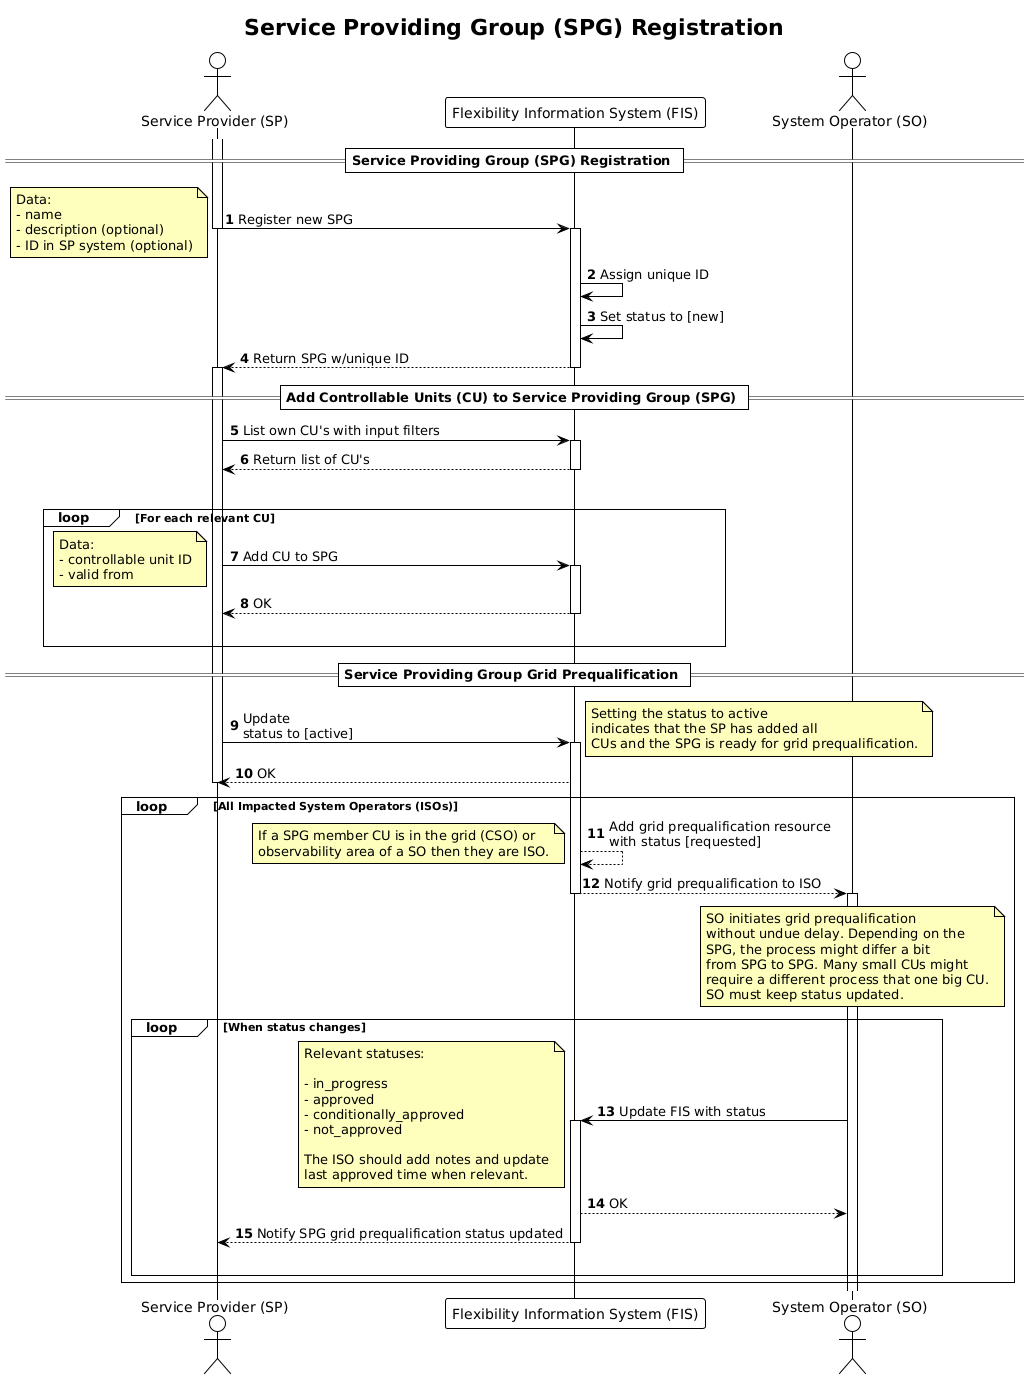
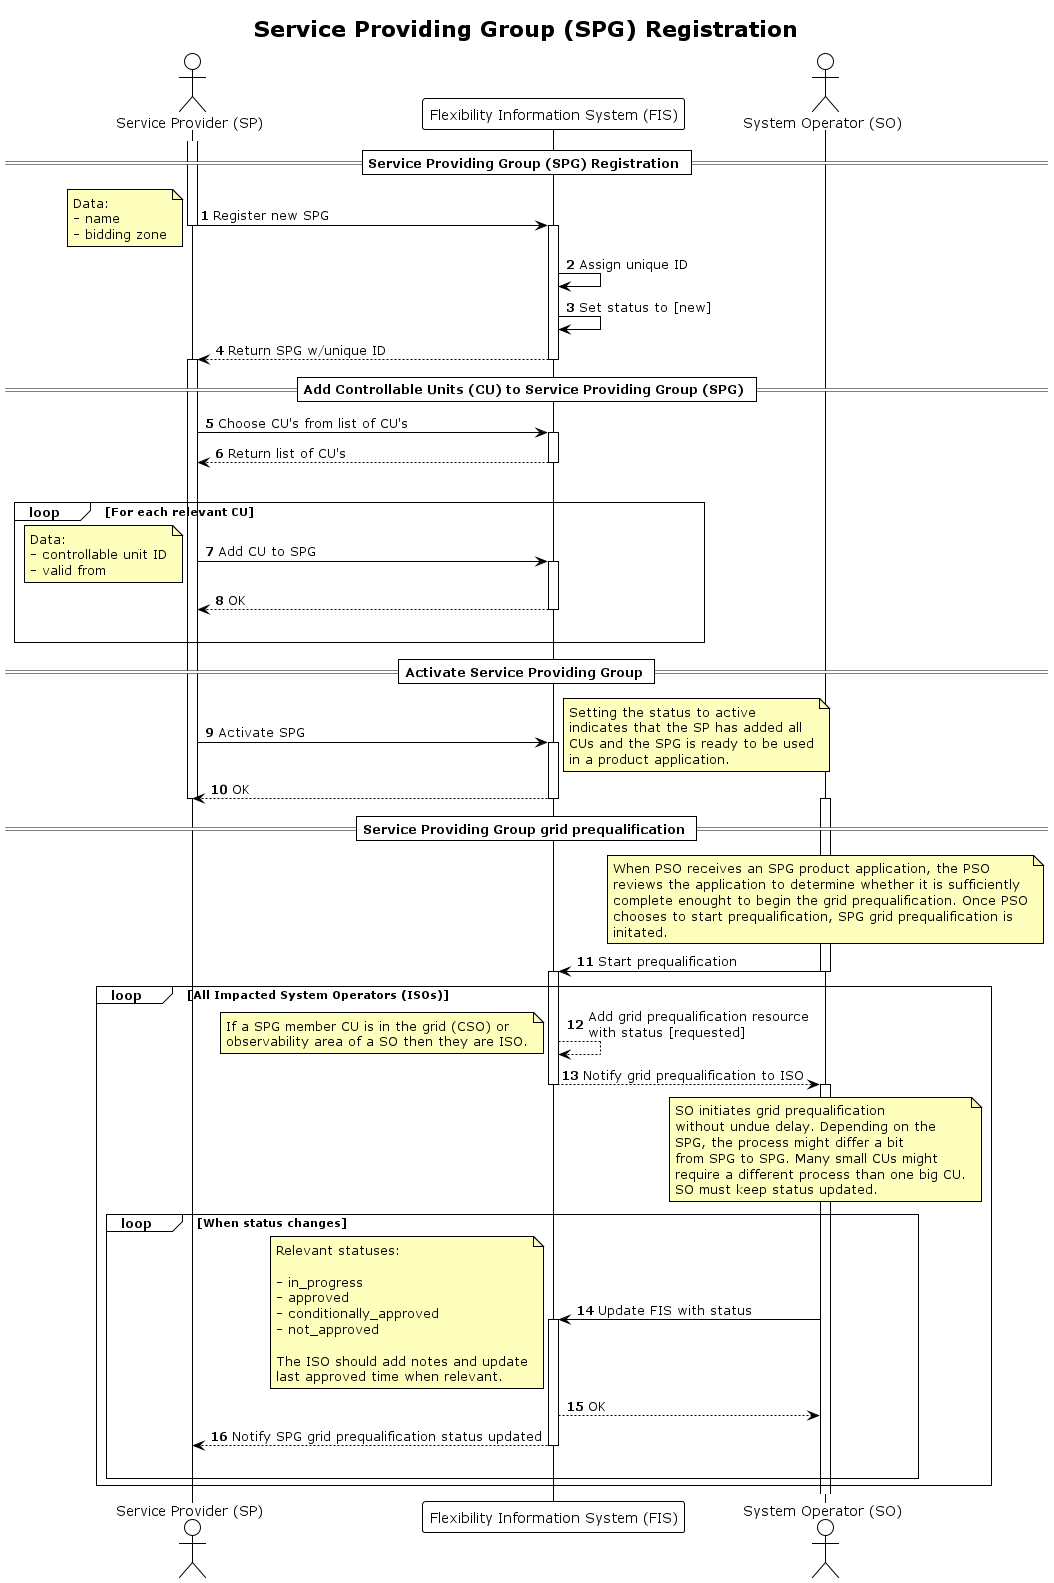
docs: update SPG registration process (#885)

Pull request: Docs: Update SPG registration process

diff --git a/docs/processes/service-providing-group-registration.md b/docs/processes/service-providing-group-registration.md
@@ -1,13 +1,12 @@
 # SPG Registration
 
-Service Providing Group registration is the process of registering a new SPG,
-adding CUs and ends once grid prequalification is completed. The process is
-initiated by the Service Provider.
+Service Providing Group registration is the process of registering a new SPG and
+adding CUs.
 
 A Service Providing Group (SPG) is considered as new until the status is changed
-to active. When this happens, grid prequalification notifications are sent to
-all ISOs. Once grid prequalification has been requested, any changes to the SPG
-is considered an update, and handled by the update process.
+to active. When this happens, the SPG can be used in a product application. Once
+a product application is considered complete enough for prequalification, grid
+prequalification is initiated.
 
 ## Prerequisites
 